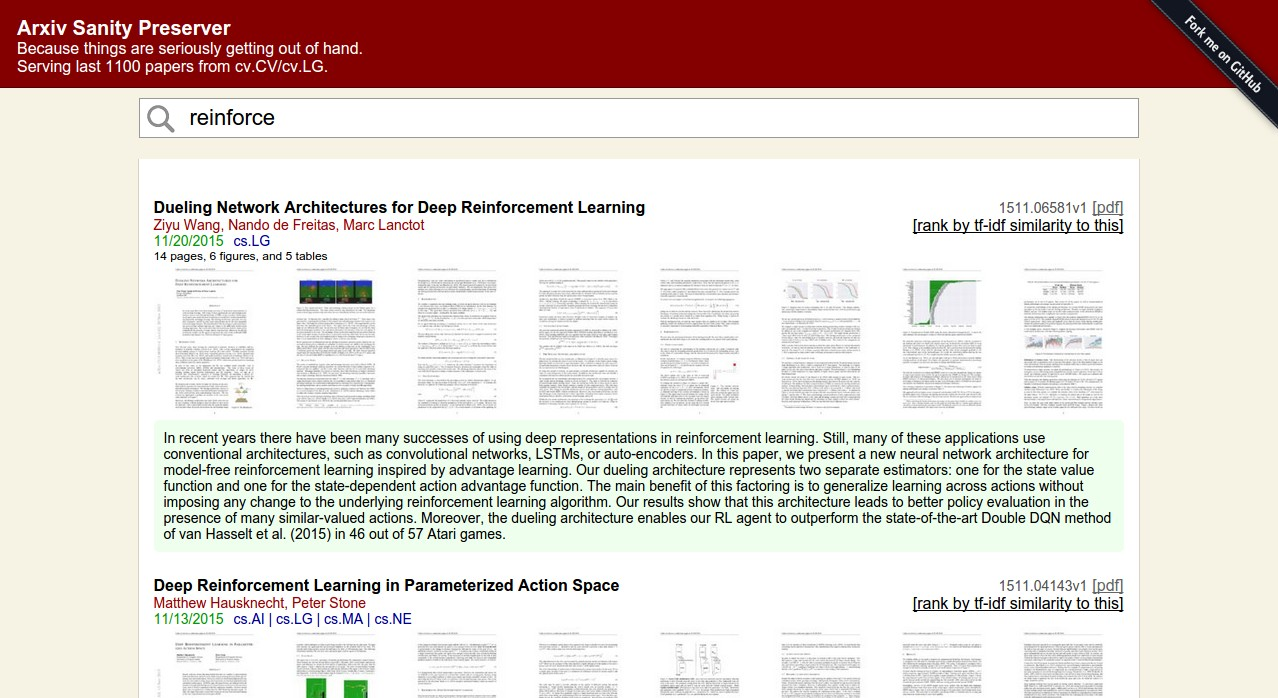
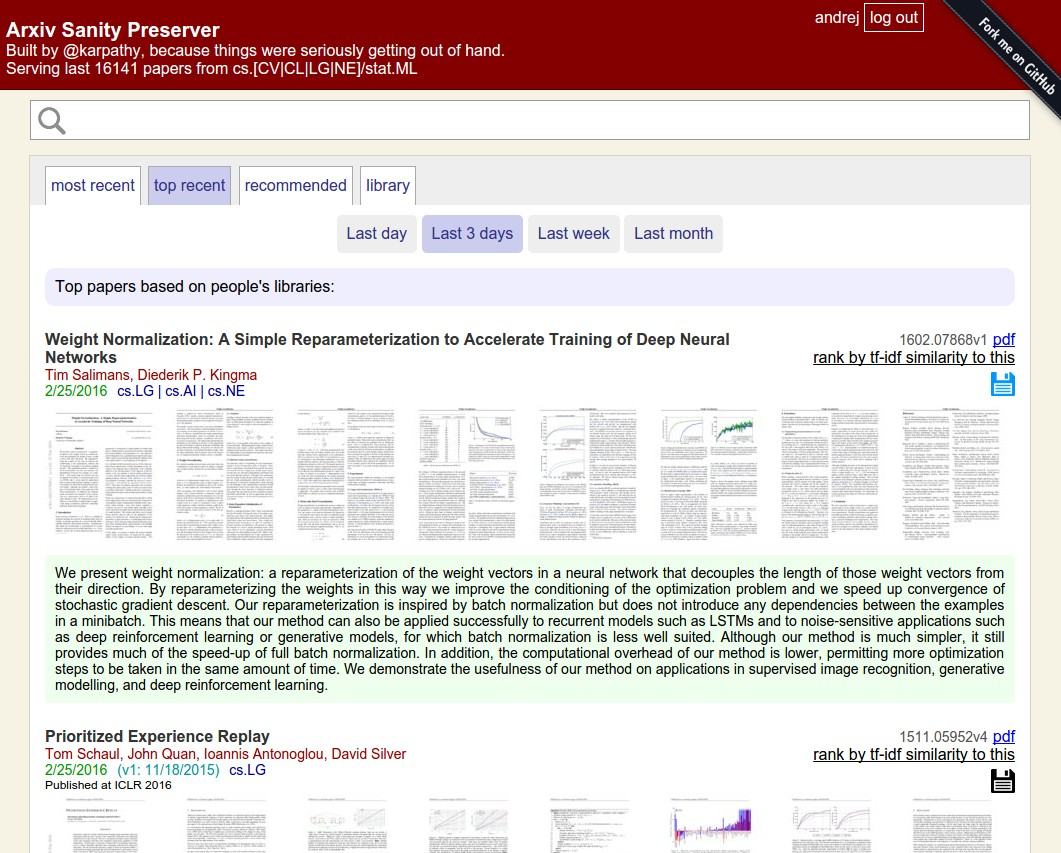
updating readme

diff --git a/README.md b/README.md
@@ -1,20 +1,21 @@
 
 # arxiv sanity preserver
 
-There are way too many arxiv papers, so I wrote a quick webapp that lets you search and sort through the mess in a pretty interface, similar to my [pretty conference format](http://cs.stanford.edu/people/karpathy/nips2014/). The code is broken up into two main pieces:
-
-**Indexing code**. Uses Arxiv API to download the most recent papers in any categories you like, and then downloads all papers, extracts all text, and creates tfidf vectors for each paper. This code is therefore concerned with building up a database of arxiv papers, calculating content vectors, creating thumbnails, etc.
-
-**User interface**. Then there is a web server (based on Flask) that enables searching through the database and filtering papers by similarity, etc. Main functionality is a search feature, and most useful is that you can click "sort by tfidf similarity to this", which returns all the most similar papers to that one in terms of tfidf bigrams. I find this quite useful.
+This project is a web interface that attempts to tame the overwhelming flood of papers on Arxiv. It allows researchers to keep track of recent papers, search for papers, sort papers by similarity to any paper, see recent popular papers, to add papers to a personal library, and to get personalized recommendations of (new or old) Arxiv papers. This code is currently running live at [www.arxiv-sanity.com/](http://www.arxiv-sanity.com/), where it's serving 15,000+ Arxiv papers from Machine Learning (cs.[CV|CL|LG|NE]/stat.ML) over the last ~3 years. I am looking for collaborators who wish to try to get this running for other parts of Arxiv as well (e.g. theory? physics?)
 
 ![user interface](https://raw.github.com/karpathy/arxiv-sanity-preserver/master/ui.jpeg)
 
-### Find it online
+### Code layout
 
-This code is currently running live at [www.arxiv-sanity.com/](http://www.arxiv-sanity.com/). Right now it's serving ~13,000 arxiv papers from cs.[CV|CL|LG] over the last ~3 years, and more will be added in time as I build this out.
+There are two large parts of the code:
+
+**Indexing code**. Uses Arxiv API to download the most recent papers in any categories you like, and then downloads all papers, extracts all text, creates tfidf vectors based on the content of each paper. This code is therefore concerned with the backend scraping and computation: building up a database of arxiv papers, calculating content vectors, creating thumbnails, computing SVMs for people, etc.
+
+**User interface**. Then there is a web server (based on Flask/Tornado/sqlite) that allows searching through the database and filtering papers by similarity, etc.
 
 ### Dependencies
-You will need numpy, feedparser (to process xml files), scikit learn (for tfidf vectorizer), and flask (for serving the results), and tornado (if you want to run the flask server in production). Also dateutil, and scipy. And sqlite3 for database (accounts, library support, etc.). Most of these are easy to get through `pip`, e.g.:
+
+Several: You will need numpy, feedparser (to process xml files), scikit learn (for tfidf vectorizer, training of SVM), flask (for serving the results), and tornado (if you want to run the flask server in production). Also dateutil, and scipy. And sqlite3 for database (accounts, library support, etc.). Most of these are easy to get through `pip`, e.g.:
 
 ```bash
 $ virtualenv env                # optional: use virtualenv
@@ -24,20 +25,20 @@ $ pip install -r requirements.txt
 
 ### Processing pipeline
 
-Right now this code requires reading code and getting your hands dirty. There are a few magic numbers throughout code, but luckily each script is quite short, transparent and easy to modify. In order there are:
+Right now this project requires code reading and getting your hands dirty. I tried to keep it relatively clean, but I do encourage you to skim each script when you run it. In order, the processing pipeline is:
 
 1. Run `fetch_papers.py` to query arxiv API and create a file `db.p` that contains all information for each paper
 2. Run `download_pdf.py`, which iterates over all papers in parsed pickle and downloads the papers into folder `pdf`
 3. Run `parse_pdf_to_text.py` to export all text from pdfs to files in `txt`
 4. Run `thumb_pdf.py` to export thumbnails of all pdfs to `thumb`
 5. Run `analyze.py` to compute tfidf vectors for all documents based on bigrams. Saves a `tfidf.p`, `tfidf_meta.p` and `sim_dict.p` pickle files.
-6. Run `buildsvm.py` to train SVMs for all users (if any)
+6. Run `buildsvm.py` to train SVMs for all users (if any), exports a pickle `user_sim.p`
 7. Run the flask server with `serve.py`. Visit localhost:5000 and enjoy sane viewing of papers
+
+I have a simple shell script that runs these commands one by one, and every day I run this script to fetch new papers, incorporate them into the database, and recompute all tfidf vectors/classifiers.
 
 ### Running online
 
-If you'd like to run this flask server online (e.g. AWS/Terminal) run it as `python serve.py --prod`.
+If you'd like to run this flask server online (e.g. AWS) run it as `python serve.py --prod`. 
 
-The interface supports a simple creation of user accounts. A logged in user can save papers into their library, and view them later. 
-
-In a later release we will actually build a custom SVM for each user based on the list of papers in their library.
+You also want to create a `secret_key.txt` file and fill it with random text (see top of `serve.py`).
